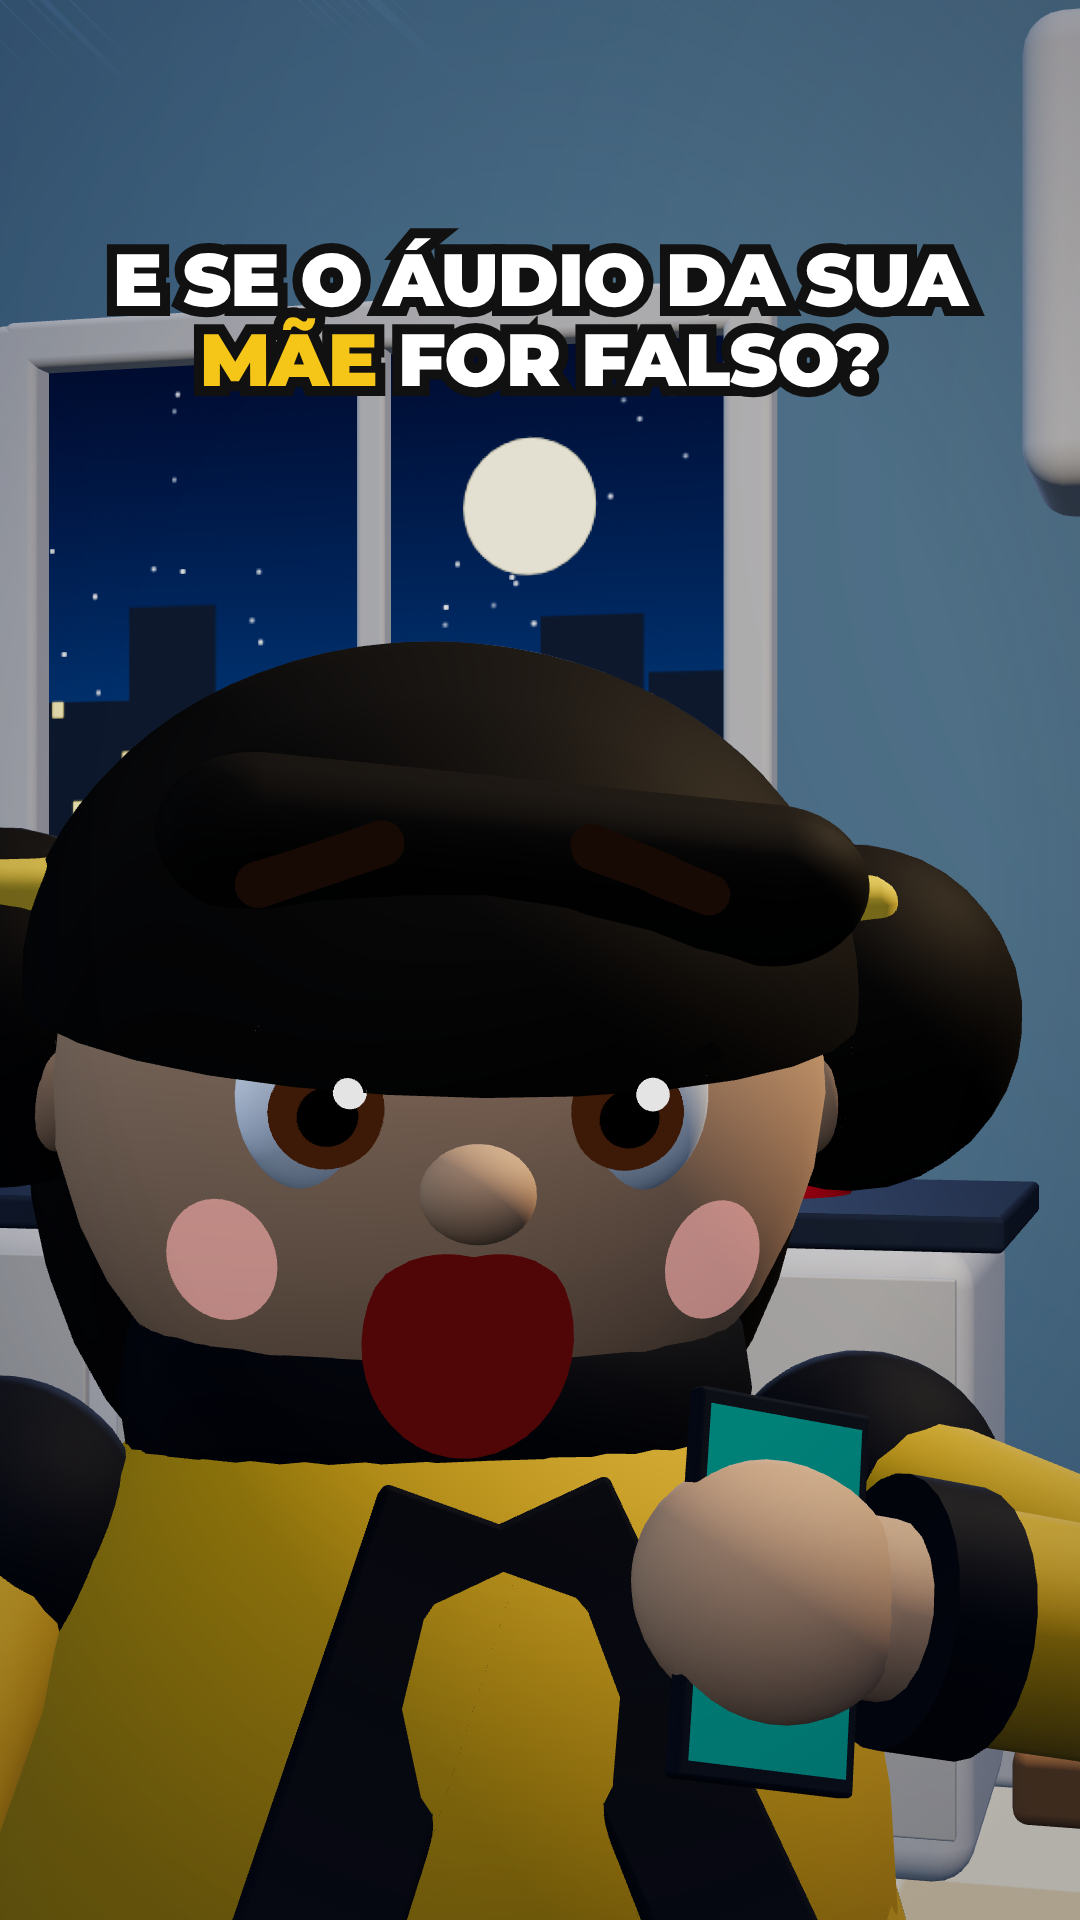
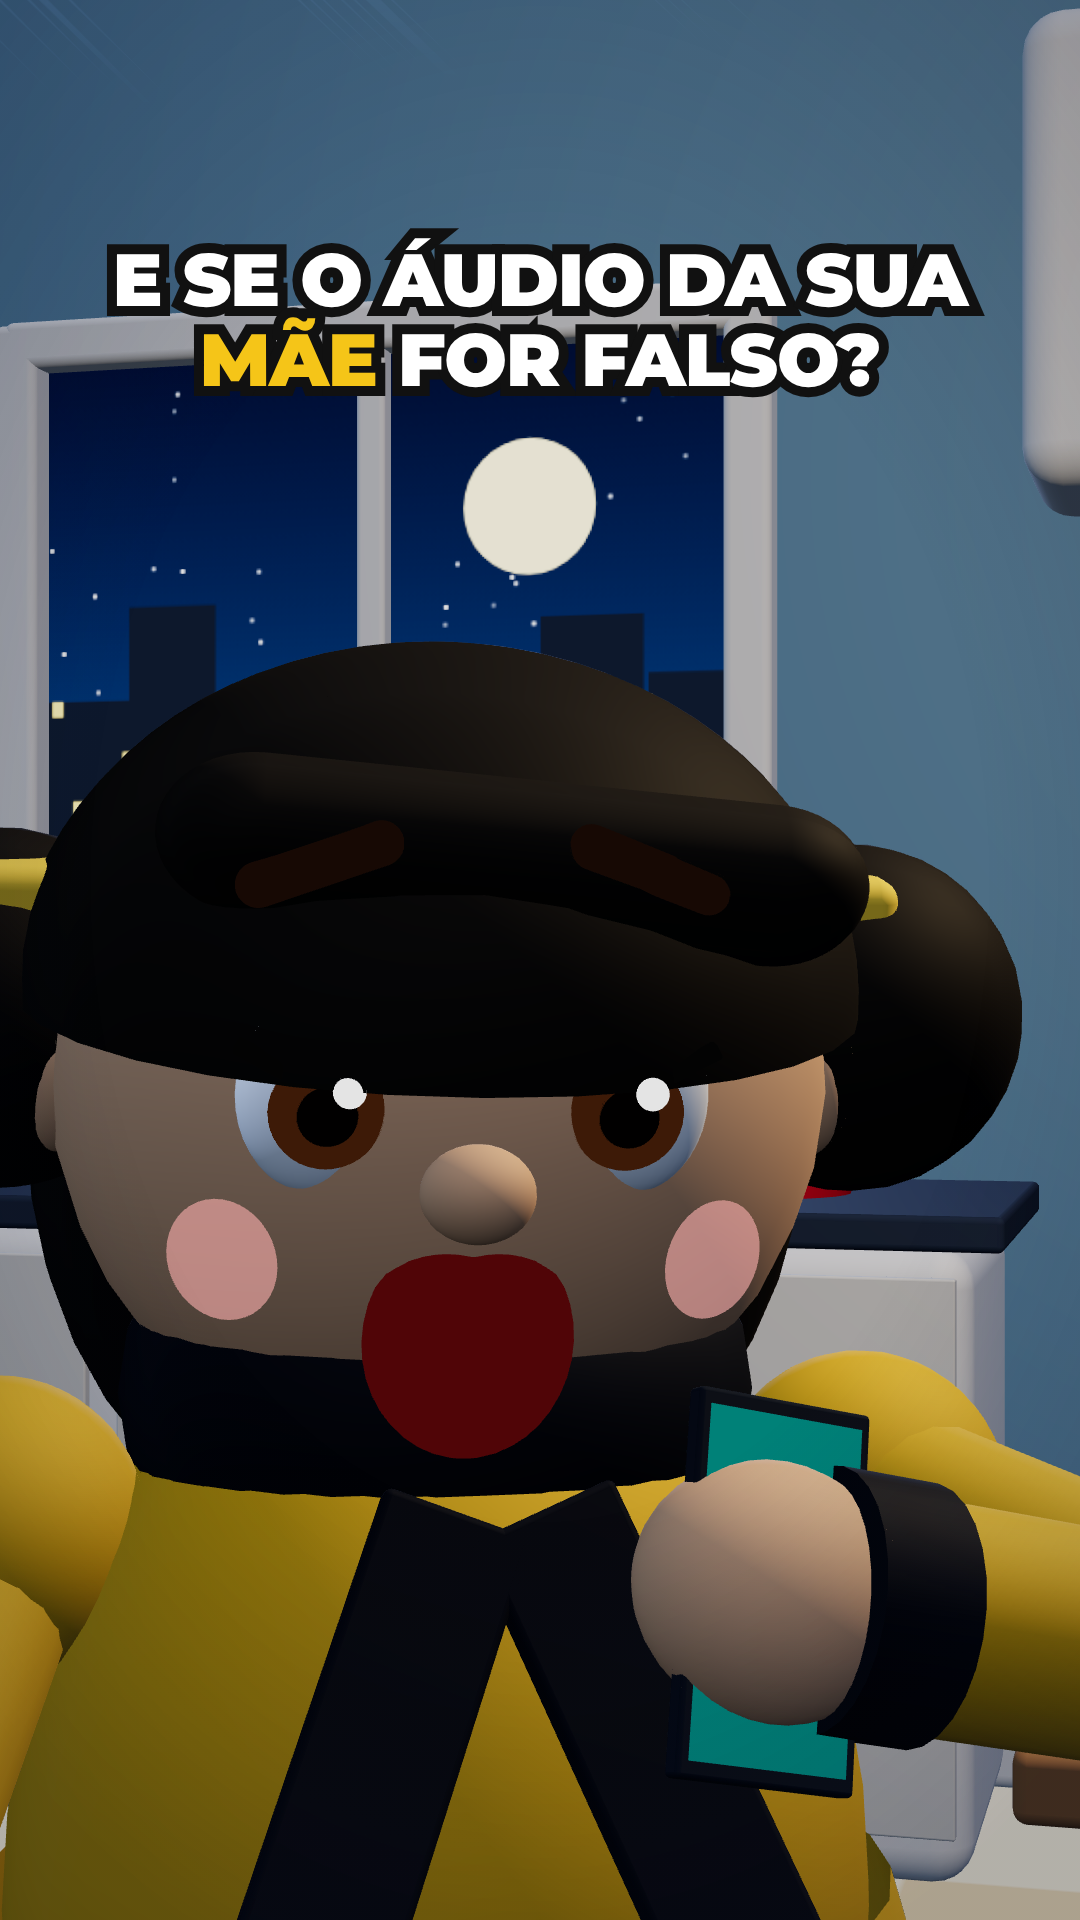
Motor: roupa sobretudo de detetive

diff --git a/motor/kit.js b/motor/kit.js
@@ -2086,11 +2086,16 @@
 
   // op.tipo: 'menino' (padrão, mascote) | 'menina' (vestido vermelho)
   // op.roupa: 'moletom' = roupa do mascote (moletom amarelo com capuz, mochila, calça azul-noite, tênis branco)
+  //          'sobretudo' = capa de chuva de detetive, pra menino ou menina, sem vestido por baixo: sobretudo até o
+  //          joelho com gola levantada, lapelas, cinto com fivela, botões e mangas compridas. Cores: sobretudo,
+  //          detalhe (gola, lapelas, cinto, botões e punhos), fivela e sapato
   K.boneco = function (op = {}) {
+    const sobretudo = op.roupa === 'sobretudo';
     const menina = op.tipo === 'menina';
+    const vestido = menina && !sobretudo;
     const moletom = !menina && op.roupa === 'moletom';
-    const c = Object.assign({}, K.cores, op.cores || {});
-    const corRoupa = menina ? c.vestido : moletom ? c.moletom : c.camiseta;
+    const c = Object.assign({ sobretudo: 0xeab308, detalhe: 0x111827, fivela: 0xfde68a, sapato: 0x111827 }, K.cores, op.cores || {});
+    const corRoupa = sobretudo ? c.sobretudo : menina ? c.vestido : moletom ? c.moletom : c.camiseta;
     const matRoupa = K.mat(corRoupa);
     const corCabelo = menina ? c.cabeloMenina : c.cabelo;
     const g = new THREE.Group();
@@ -2102,20 +2107,20 @@
       const quadril = new THREE.Group();
       quadril.position.set(lado * 0.09, 0.62, 0);
       const comp = menina ? 0.5 : 0.34;
-      const perna = moletom
-        ? K.malha(new THREE.CylinderGeometry(0.1, 0.085, 0.6, 8), K.mat(c.calca))
+      const perna = moletom || (sobretudo && !menina)
+        ? K.malha(new THREE.CylinderGeometry(moletom ? 0.1 : 0.075, moletom ? 0.085 : 0.07, 0.6, 8), K.mat(c.calca))
         : K.malha(K.redondo ? new THREE.CapsuleGeometry(0.062, comp - 0.06, 6, 20) : new THREE.CylinderGeometry(0.065, 0.06, comp, 7), pele);
-      perna.position.y = moletom ? -0.26 : -0.54 + comp / 2;
+      perna.position.y = moletom || (sobretudo && !menina) ? -0.26 : -0.54 + comp / 2;
       // Redondo: tênis de bico redondo (cápsula deitada e achatada) no lugar da caixa
       const geoTenis = K.redondo ? new THREE.CapsuleGeometry(0.075, 0.1, 8, 20).rotateX(Math.PI / 2).scale(1, 0.55, 1) : new THREE.BoxGeometry(0.15, 0.08, 0.24);
-      const tenis = K.malha(geoTenis, K.mat(menina || moletom ? c.tenisBranco : c.tenis));
+      const tenis = K.malha(geoTenis, K.mat(sobretudo ? c.sapato : menina || moletom ? c.tenisBranco : c.tenis));
       tenis.position.set(0, K.redondo ? -0.565 : -0.58, 0.03);
       quadril.add(perna, tenis);
       if (moletom) {
         const sola = K.malha(K.redondo ? new THREE.CapsuleGeometry(0.08, 0.1, 6, 20).rotateX(Math.PI / 2).scale(1, 0.2, 1) : new THREE.BoxGeometry(0.16, 0.03, 0.25), K.mat(c.sola));
         sola.position.set(0, K.redondo ? -0.6 : -0.615, 0.03);
         quadril.add(sola);
-      } else if (!menina) {
+      } else if (!menina && !sobretudo) {
         const bermuda = K.malha(new THREE.CylinderGeometry(0.11, 0.1, 0.24, 8), K.mat(c.bermuda));
         bermuda.position.set(lado * 0.005, -0.12, 0);
         quadril.add(bermuda);
@@ -2123,16 +2128,44 @@
       corpo.add(quadril);
       return { quadril, lado };
     });
-    if (menina) {
+    if (vestido) {
       const saia = K.malha(new THREE.CylinderGeometry(0.2, 0.36, 0.44, 12), K.mat(corRoupa));
       saia.position.y = 0.56;
       corpo.add(saia);
     }
 
-    const tronco = K.malha(new THREE.SphereGeometry(0.26, 10, 8), matRoupa);
+    const tronco = K.malha(new THREE.SphereGeometry(0.26, sobretudo ? 24 : 10, sobretudo ? 16 : 8), matRoupa);
     tronco.scale.set(menina ? 0.9 : 1, 1.25, 0.85);
     tronco.position.y = 0.8;
     corpo.add(tronco);
+    if (sobretudo) {
+      // Aba do sobretudo até o joelho, aberta embaixo, com a costura da frente
+      const matDet = K.mat(c.detalhe);
+      const aba = K.malha(new THREE.CylinderGeometry(0.245, 0.39, 0.5, 24, 1, true), K.mat(corRoupa, { side: THREE.DoubleSide }));
+      aba.position.y = 0.56;
+      const costura = K.malha(new THREE.BoxGeometry(0.012, 0.46, 0.02), matDet);
+      costura.position.set(0.03, 0.55, 0.33); costura.rotation.x = -0.29;
+      // Gola levantada e lapelas em V
+      const gola = K.malha(new THREE.TorusGeometry(0.12, 0.045, 10, 24), matDet);
+      gola.rotation.x = Math.PI / 2; gola.position.set(0, 1.07, -0.01); gola.scale.set(1.05, 1, 1.6);
+      corpo.add(aba, costura, gola);
+      [-1, 1].forEach((lado) => {
+        const lapela = K.malha(new THREE.BoxGeometry(0.075, 0.24, 0.02), matDet);
+        lapela.position.set(lado * 0.065, 0.93, 0.215); lapela.rotation.set(-0.35, 0, lado * 0.38);
+        corpo.add(lapela);
+        [0.8, 0.7].forEach((y) => {
+          const botao = K.malha(new THREE.SphereGeometry(0.018, 12, 8), matDet);
+          botao.position.set(lado * 0.075, y, 0.228 - (0.8 - y) * 0.05);
+          corpo.add(botao);
+        });
+      });
+      // Cinto com fivela
+      const cinto = K.malha(new THREE.CylinderGeometry(0.288, 0.3, 0.065, 24), matDet);
+      cinto.position.y = 0.66;
+      const fivela = K.malha(new THREE.BoxGeometry(0.08, 0.07, 0.02), K.mat(c.fivela, { metalness: 0.6 }));
+      fivela.position.set(0, 0.66, 0.3);
+      corpo.add(cinto, fivela);
+    }
     let mochila = null;
     if (moletom) {
       // Capuz caído nas costas, cordinhas, bolso canguru e mochila com alças
@@ -2169,7 +2202,7 @@
       const ombro = new THREE.Group();
       ombro.position.set(lado * (menina ? 0.24 : 0.27), 1.0, 0);
       const manga = K.malha(new THREE.SphereGeometry(K.redondo ? 0.082 : 0.1, 8, 6), matRoupa);
-      const matBraco = moletom ? matRoupa : pele, gr = moletom ? 1.45 : 1;
+      const matBraco = moletom || sobretudo ? matRoupa : pele, gr = moletom ? 1.45 : sobretudo ? 1.3 : 1;
       // Redondo: braço e antebraço em cápsula (o cotovelo dobra sem emenda) e mão de luva com polegar
       const sup = K.malha(K.redondo ? new THREE.CapsuleGeometry(0.044 * gr, 0.3 - 0.088 * gr, 6, 20) : new THREE.CylinderGeometry(0.045 * gr, 0.042 * gr, 0.26, 6), matBraco);
       sup.position.y = -0.15;
@@ -2186,8 +2219,8 @@
         mao.add(polegar);
       }
       cotovelo.add(ant, mao);
-      if (moletom) {
-        const punho = K.malha(new THREE.CylinderGeometry(0.066, 0.066, 0.05, 7), K.mat(c.punho));
+      if (moletom || sobretudo) {
+        const punho = K.malha(new THREE.CylinderGeometry(sobretudo ? 0.06 : 0.066, sobretudo ? 0.06 : 0.066, 0.05, sobretudo ? 16 : 7), K.mat(sobretudo ? c.detalhe : c.punho));
         punho.position.y = -0.2;
         cotovelo.add(punho);
       }

diff --git a/videos/voz-clonada/cena.js b/videos/voz-clonada/cena.js
@@ -337,23 +337,6 @@
     const coresP = Object.fromEntries(Object.entries(id.cores).map(([k, c]) => [k, new THREE.Color(c).getHex()]));
     det = K.apresentador({ tipo: id.tipo, roupa: id.roupa, cores: coresP });
     det.g.position.set(...POS); det.g.rotation.y = YAW; det.reset(0); det.g.updateMatrixWorld(true);
-    // Sobretudo de detetive (capa de chuva): amarelo, gola levantada e lapelas pretas, cinto com fivela, botões e mangas
-    const COR_CAPA = 0xeab308, matCapa = K.mat(COR_CAPA), matPreto = K.mat(PRETO);
-    const capaCorpo = K.malha(new THREE.SphereGeometry(0.262, 24, 16), matCapa); capaCorpo.scale.set(0.95, 1.27, 0.92); capaCorpo.position.y = 0.8; det.corpo.add(capaCorpo);
-    const capaSaia = K.malha(new THREE.CylinderGeometry(0.245, 0.39, 0.5, 24, 1, true), K.mat(COR_CAPA, { side: THREE.DoubleSide })); capaSaia.position.y = 0.56; det.corpo.add(capaSaia);
-    const abertura = K.malha(new THREE.BoxGeometry(0.012, 0.46, 0.02), matPreto); abertura.position.set(0.02, 0.55, 0.33); abertura.rotation.x = -0.29; det.corpo.add(abertura);
-    const gola = K.malha(new THREE.TorusGeometry(0.12, 0.045, 10, 24), matPreto); gola.rotation.x = Math.PI / 2; gola.position.set(0, 1.07, -0.01); gola.scale.set(1.05, 1, 1.6); det.corpo.add(gola);
-    [-1, 1].forEach((lado) => {
-      const lapela = K.malha(new THREE.BoxGeometry(0.075, 0.24, 0.02), matPreto); lapela.position.set(lado * 0.065, 0.93, 0.205); lapela.rotation.set(-0.35, 0, lado * 0.38); det.corpo.add(lapela);
-      [0.8, 0.7].forEach((y) => bola(det.corpo, 0.018, [lado * 0.075, y, 0.228 - (0.8 - y) * 0.05], PRETO));
-    });
-    const cinto = K.malha(new THREE.CylinderGeometry(0.288, 0.3, 0.065, 24), matPreto); cinto.position.y = 0.66; det.corpo.add(cinto);
-    const fivela = K.malha(new THREE.BoxGeometry(0.08, 0.07, 0.02), K.mat(0xfde68a, { metalness: 0.6 })); fivela.position.set(0, 0.66, 0.3); det.corpo.add(fivela);
-    det.bracos.forEach((b) => {
-      const mSup = K.malha(new THREE.CapsuleGeometry(0.058, 0.17, 6, 16), matCapa); mSup.position.y = -0.13; b.ombro.add(mSup);
-      const mAnt = K.malha(new THREE.CapsuleGeometry(0.054, 0.12, 6, 16), matCapa); mAnt.position.y = -0.09; b.cotovelo.add(mAnt);
-      const punhoC = K.malha(new THREE.CylinderGeometry(0.062, 0.062, 0.04, 16), matPreto); punhoC.position.y = -0.17; b.cotovelo.add(punhoC);
-    });
     ROSTO = det.cabeca.getWorldPosition(new THREE.Vector3()).toArray();
 
     plaquinha = K.plaquinha('DESCONFIA\nSEMPRE!'); plaquinha.position.set(1.3, 0, 0.75); plaquinha.rotation.y = -0.35; plaquinha.scale.setScalar(0.62);

diff --git a/canal/identidade.md b/canal/identidade.md
@@ -5,17 +5,17 @@
 
 ## Personagem
 
-A detetive: menina de cabelo preto com **sobretudo de detetive amarelo** (capa de chuva): gola levantada e lapelas
-pretas, cinto preto com fivela dourada, botões pretos, mangas compridas com punho preto e sapatos pretos. Sem boina.
-Usa lupa nas investigações. Diferente do menino azul e laranja do outro canal (O Mundo da Tecnologia).
-Como fazer: o motor só desenha menina de vestido, então o vestido fica preto (`vestido: #111827`) e o sobretudo é
-montado no `cena.js` por cima do corpo (copiar o bloco "Sobretudo de detetive" de `videos/voz-clonada/cena.js`).
+A detetive: menina de cabelo preto com **sobretudo de detetive amarelo** (capa de chuva) até o joelho, sem vestido
+por baixo: gola levantada e lapelas pretas, cinto preto com fivela dourada, botões pretos, mangas compridas com punho
+preto e sapatos pretos. Sem boina. Usa lupa nas investigações. Diferente do menino azul e laranja do outro canal
+(O Mundo da Tecnologia). A roupa é a opção `"roupa": "sobretudo"` do motor (criada em 25/11/2026).
 
 Nas cenas com interação, usar `K.apresentador` para orientar o olhar, apontar para as pistas e segurar o celular,
 o boleto ou a maquininha. Modelos externos em `referencias/modelos-e-personagens.md`.
 
 - Tipo: `menino` ou `menina`
-- Roupa: `camiseta` (camiseta + bermuda) ou `moletom` (moletom com capuz, mochila, calça)
+- Roupa: `camiseta` (camiseta + bermuda), `moletom` (moletom com capuz, mochila, calça; só menino) ou `sobretudo`
+  (capa de detetive; cores `sobretudo`, `detalhe`, `fivela`, `sapato`)
 - Cores que dá pra trocar: `camiseta`, `bermuda`, `tenis`, `cabelo`, `pele`, `moletom`, `punho`, `calca`, `mochila`, `vestido`
 
 ## Lugar e hora padrão
@@ -62,7 +62,7 @@ Coloque o logo do canal em `canal/logo.png` (quadrado). Ele aparece no fim de to
 "estilo": "redondo",
 "fps": 60,
 "efeitos": {"abaixa": true},
-"personagem": {"tipo": "menina", "roupa": "moletom", "cores": {"vestido": "#111827", "cabeloMenina": "#1f1a17", "tenisBranco": "#111827", "moletom": "#facc15", "punho": "#111827", "calca": "#111827", "mochila": "#facc15", "tenis": "#f4f1ea", "cabelo": "#1f1a17"}},
+"personagem": {"tipo": "menina", "roupa": "sobretudo", "cores": {"sobretudo": "#eab308", "detalhe": "#111827", "fivela": "#fde68a", "sapato": "#111827", "cabeloMenina": "#1f1a17"}},
 "lugar": "cozinha",
 "hora": "noite",
 "voz": {"motor": "elevenlabs", "id": "IYSWsktXvPfMJJ7GKBNY", "modelo": "eleven_multilingual_v2", "velocidade": 1.1, "acelerar": "auto"}

diff --git a/canal/aprendizados.md b/canal/aprendizados.md
@@ -43,7 +43,7 @@
 
 ## Lições técnicas
 
-- `tipo: menina` sempre sai de vestido (cor em `vestido`, cabelo em `cabeloMenina`); `roupa: moletom` só vale pro menino. `K.engrenagem()` devolve `{ g, girar }`: usar `.g`. Na cozinha, a câmera vertical precisa de teto e piso compridos, senão aparece vazio escuro nos planos abertos; detetive a uns 0,4 m da mesa pra não dar conflito de espaço (voz-clonada, 25/11/2026).
+- `tipo: menina` sai de vestido, a não ser com `roupa: sobretudo` (opção do motor criada em 25/11/2026); `roupa: moletom` só vale pro menino; cabelo da menina em `cabeloMenina`. `K.engrenagem()` devolve `{ g, girar }`: usar `.g`. Na cozinha, a câmera vertical precisa de teto e piso compridos, senão aparece vazio escuro nos planos abertos; detetive a uns 0,4 m da mesa pra não dar conflito de espaço (voz-clonada, 25/11/2026).
 - Render longo na nuvem (sem placa de vídeo, ~3,5 s por quadro a 60 fps, ~5 h para 1min40) é cortado com 2 h: o motor agora guarda os quadros em `testes/quadros/` e, rodando o mesmo comando de novo, continua de onde parou sem gastar narração (videogame-cidade, 23/11/2026).
 - No PC do usuário (com placa de vídeo) o mesmo render de 1min40 a 60 fps leva ~5 min de quadros: preferir render final no PC. A narração em `narracao/` não vai pro GitHub, então trocar de máquina gera a voz de novo (~1.600 caracteres). O Git foi instalado no PC em 23/11/2026; se `git` não for achado num terminal antigo, abrir um novo (videogame-cidade, 23/11/2026).
 - Colisão e contato não garantem leitura visual: orientar tronco, rosto e braços para a tarefa, conferir a frente local da peça e mantê-la à frente durante retiradas e giros. Separar personagem/modelo em profundidade, preservar rosto e mãos visíveis e manter a posição do ator até soltar a peça; revisar também mãos e pés no enquadramento. Declarar teclado e monitor separadamente no computador, sem volumes vazios (impressora, 13/11; bico, 16/11/2026).

diff --git a/referencias/kit-indice.md b/referencias/kit-indice.md
@@ -124,7 +124,7 @@ Animação adicional em `motor/animacao.js` (guia: `referencias/animacao-e-camer
 - `K.modelo(id, op)` em `motor/pecas-e-personagens.js`: instancia um GLB declarado no roteiro. `em` toca ou combina clipes por tempo absoluto.
 - `K.placaEletronica(op)`, `K.bateria(op)` e `K.engrenagem(op)` em `motor/pecas-e-personagens.js`: peças com componentes e controles reutilizáveis.
 
-- `K.boneco(op = {})` (linha 2077): op.tipo: 'menino' (padrão, mascote) | 'menina' (vestido vermelho) op.roupa: 'moletom' = roupa do mascote (moletom amarelo com capuz, mochila, calça azul-noite, tênis branco)
+- `K.boneco(op = {})` (linha 2077): op.tipo: 'menino' (padrão, mascote) | 'menina' (vestido vermelho) op.roupa: 'moletom' = roupa do mascote (moletom amarelo com capuz, mochila, calça azul-noite, tênis branco) | 'sobretudo' = capa de chuva de detetive (menino ou menina, sem vestido), com gola, lapelas, cinto, fivela, botões e mangas; cores `sobretudo`, `detalhe`, `fivela`, `sapato`
   - boneco: `b.humor(h)` (linha 2277): humor: 'feliz' | 'triste' | 'surpreso' | 'bravo' | 'nojo' | 'assustado'
   - boneco: `b.pose(esq, dir)` (linha 2291): pose: braços como { x, z, c } por lado (-1 = esquerda da tela quando de frente, 1 = direita)
   - boneco: `b.pernasEm(e, d)` (linha 2297)

diff --git a/canal/historico.md b/canal/historico.md
@@ -19,3 +19,4 @@
 - 25/11/2026 · voz-clonada · Pediu pra continuar → testando a cena e gerando prévias com voz de teste.
 - 25/11/2026 · voz-clonada · Cena testada e prévias geradas com voz de teste (close da detetive com o título, celular gigante com as telas, PARA TUDO vermelho com tremida, papagaio, 3 pistas, cadeado, final com COMBINADO). Detetive ficou de vestido amarelo com boina preta (o motor não faz menina de moletom). Aguardando opinião antes do vídeo com a voz final.
 - 25/11/2026 · voz-clonada · Pediu uma roupa de detetive sem boina e o render no PC dele → boina tirada; sobretudo amarelo com gola e lapelas pretas, cinto com fivela, botões e mangas compridas, sapatos pretos (salvo como padrão do canal). O PC ainda não aparece pra esta conversa da nuvem: render fica pela conversa do PC.
+- 25/11/2026 · canal · Pediu mudar o programa pra ela usar só o sobretudo, sem vestido → motor ganhou a roupa "sobretudo" (menino ou menina) e a detetive passou a usar ela; vídeo de exemplo conferido e continua funcionando.
